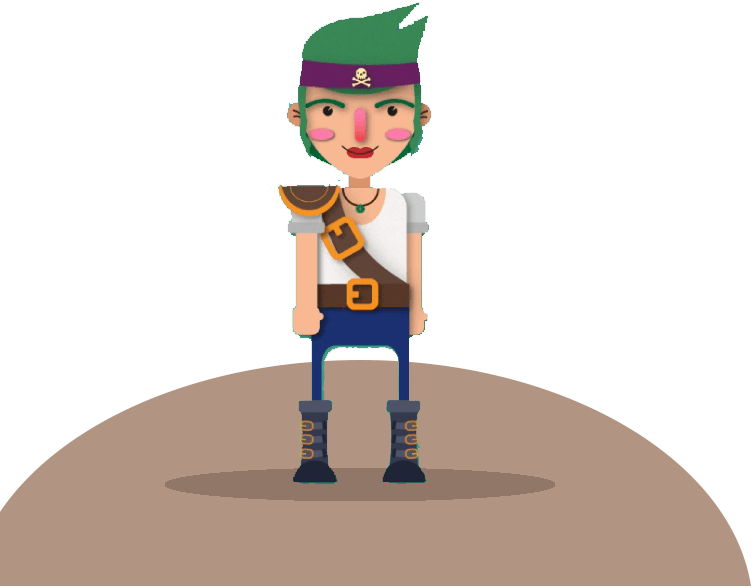
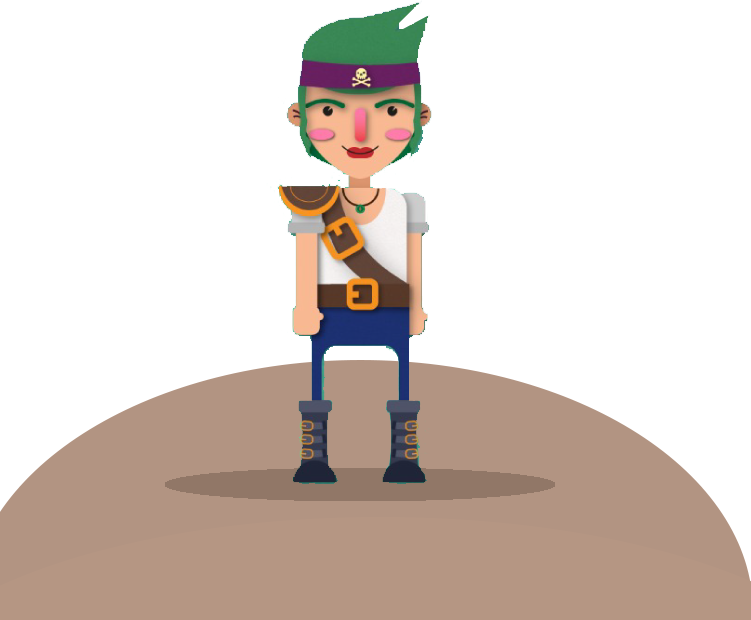
Modificaciones: posicionamiento de estadisticas, redimension de fondo en premiacion

Changed region(s): [[0.0, 0.0922, 1.0, 0.9829], [0.5206, 0.0, 0.5513, 0.0614], [0.4288, 0.0307, 0.4594, 0.0614]]

diff --git a/public/sentidos.html b/public/sentidos.html
@@ -103,19 +103,19 @@
                 <div class="row contentSentidos">
                     <div class="col-sm-8 contentSentidosImg">
                         <a href="/escucha">
-                            <img src="./images/sentidos/escucha.jpg" class="escucha">
+                            <img src="./images/sentidos/escucha.png" class="escucha">
                         </a>
                         <a href="/vista">
-                            <img src="./images/sentidos/vision.jpg" class="vista">
+                            <img src="./images/sentidos/vision.png" class="vista">
                         </a>
                         <a href="/tacto">
-                            <img src="./images/sentidos/tacto.jpg" class="tacto">
+                            <img src="./images/sentidos/tacto.png" class="tacto">
                         </a>
                         <a href="/olfato">
-                            <img src="./images/sentidos/olfato.jpg" class="olfato">
+                            <img src="./images/sentidos/olfato.png" class="olfato">
                         </a>
                         <a href="/gusto">
-                            <img src="./images/sentidos/gusto.jpg" class="gusto">
+                            <img src="./images/sentidos/gusto.png" class="gusto">
                         </a>
                     </div>
                     <div class="col-sm-4 contentSentidosDesc">

diff --git a/public/js/olfato1.js b/public/js/olfato1.js
@@ -84,21 +84,19 @@ function getStatistics(sense, activity){
             }];
         $("div.statistic").css("display", "block");
         $("div.statistic").text("0");
-        var staticA=0;
-        var staticB=0;
-        var staticC=0;
-        var staticD=0;
+
         info.forEach(function(e,i){
             if(e.value==$("."+e.value).attr("class").split(" ")[1]){
                 acum[0][e.value].push({el:e.value});
                 
                 $("."+e.value).text(acum[0][e.value].length-1);
-                staticA=100/((acum[0]["Olfato1A"].length-1)+(acum[0]["Olfato2A"].length-1));
-                staticB=100/((acum[0]["Olfato1B"].length-1)+(acum[0]["Olfato2B"].length-1));
-                staticC=100/((acum[0]["Olfato1C"].length-1)+(acum[0]["Olfato2C"].length-1));
-                staticD=100/((acum[0]["Olfato1D"].length-1)+(acum[0]["Olfato2D"].length-1));
+                if($("."+e.value).text().length>=3){
+                    $("div."+e.value).css({
+                        "left":"20%"
+                    });
+                }
             }
-            // console.log(((acum[0]["Olfato1A"].length-1)+(acum[0]["Olfato2A"].length-1)));
+
         });
         
     })

diff --git a/public/cierre.html b/public/cierre.html
@@ -116,10 +116,10 @@
     </section> -->
     <section class="container-fluid">
         <section class="row">
-            <div class="col-md-8 premiacion">
+            <div class="col-md-12 premiacion">
                 <img src="./images/recorridos/FINAL.png">
             </div>
-            <div class="col-md-4 description">
+            <!-- <div class="col-md-4 description">
                 <h2 class="text-white title">RECORRIDOS</h2>
                 <p class="subTitle">
                     Felicidades, ¡has alcanzado el máximo nivel de exploración y llegado al mundo de la vida 
@@ -129,7 +129,7 @@
 
                 <a href="#" onclick="logout();">
                     <button type="button" class="btnFinalizar" value="recorridos">Finalizar</button>
-                </a>
+                </a> -->
             </div>
         </section>
     </section>

diff --git a/public/js/gusto1.js b/public/js/gusto1.js
@@ -92,10 +92,16 @@ function getStatistics(sense, activity){
                 acum[0][e.value].push({el:e.value});
                 
                 $("."+e.value).text(acum[0][e.value].length);
+                
                 // staticA=100/((acum[0]["Gusto1A"].length-1)+(acum[0]["Gusto2A"].length-1));
                 // staticB=100/((acum[0]["Gusto1B"].length-1)+(acum[0]["Gusto2B"].length-1));
                 // staticC=100/((acum[0]["Gusto1C"].length-1)+(acum[0]["Gusto2C"].length-1));
                 // staticD=100/((acum[0]["Gusto1D"].length-1)+(acum[0]["Gusto2D"].length-1));
+            }
+            if($("."+e.value).text().length>=3){
+                $("div."+e.value).css({
+                    "left":"0%"
+                });
             }
             // console.log(acum);
         });

diff --git a/public/js/vista1.js b/public/js/vista1.js
@@ -80,14 +80,16 @@ function getStatistics(sense, activity){
             }];
         $("div.statistic").css("display", "block");
         $("div.statistic").text("0");
-        var staticA=0;
-        var staticB=0;
-        var staticC=0;
-        var staticD=0;
         info.forEach(function(e,i){
             if(e.value==$("."+e.value).attr("class").split(" ")[1]){
                 acum[0][e.value].push({el:e.value});
-                $("."+e.value).text(acum[0][e.value].length-1);
+                $("."+e.value).text(acum[0][e.value].length-1+"000");
+
+                if($("."+e.value).text().length>=3){
+                    $("div."+e.value).css({
+                        "left":"20%"
+                    });
+                }
             }
         });
     })

diff --git a/public/js/avatar.js b/public/js/avatar.js
@@ -62,7 +62,7 @@ $(document).ready(function(){
                       console.log(response.message);
                   }else{
                       localStorage.setItem('userAvatar', image);
-                      window.location="sentido";
+                      window.location="/viaje";
                   }
               })
               .catch(function(err){

diff --git a/public/js/login.js b/public/js/login.js
@@ -45,7 +45,7 @@ $(document).ready(function(){
 					localStorage.setItem('userAvatar', identity.image);
 					window.location.replace('/viaje');
 				}else{
-					window.location.replace('/viaje');	
+					window.location.replace('/avatar');	
 				}
 			}
 		})

diff --git a/public/css/olfato-style.css b/public/css/olfato-style.css
@@ -30,7 +30,9 @@ body{
 div.statistic{
     position: absolute; 
     z-index:1;
-    margin:40px;
+    /* margin:45px 5px 0px 15px; */
+    left:30%;
+    top:30%;
     background-color: #ffffff;
     display: none;
     font-family: 'Bungee', cursive;

diff --git a/public/js/mapa/mapa.js b/public/js/mapa/mapa.js
@@ -1,5 +1,6 @@
 $(document).ready(function(){
     var identity=JSON.parse(localStorage.getItem('identity'));
+    $(".imgLevel").css("pointer-events", "none");
     getSensesvalidate(identity);
 });
 
